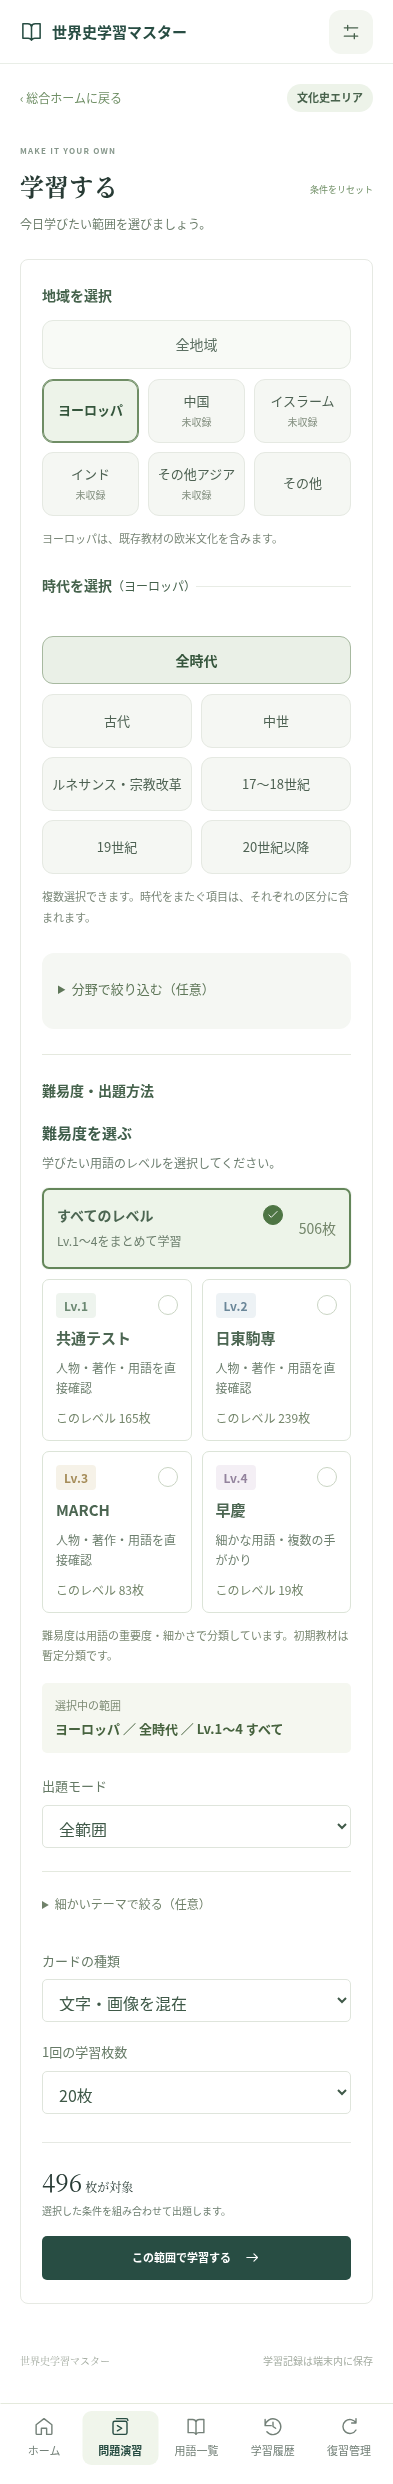
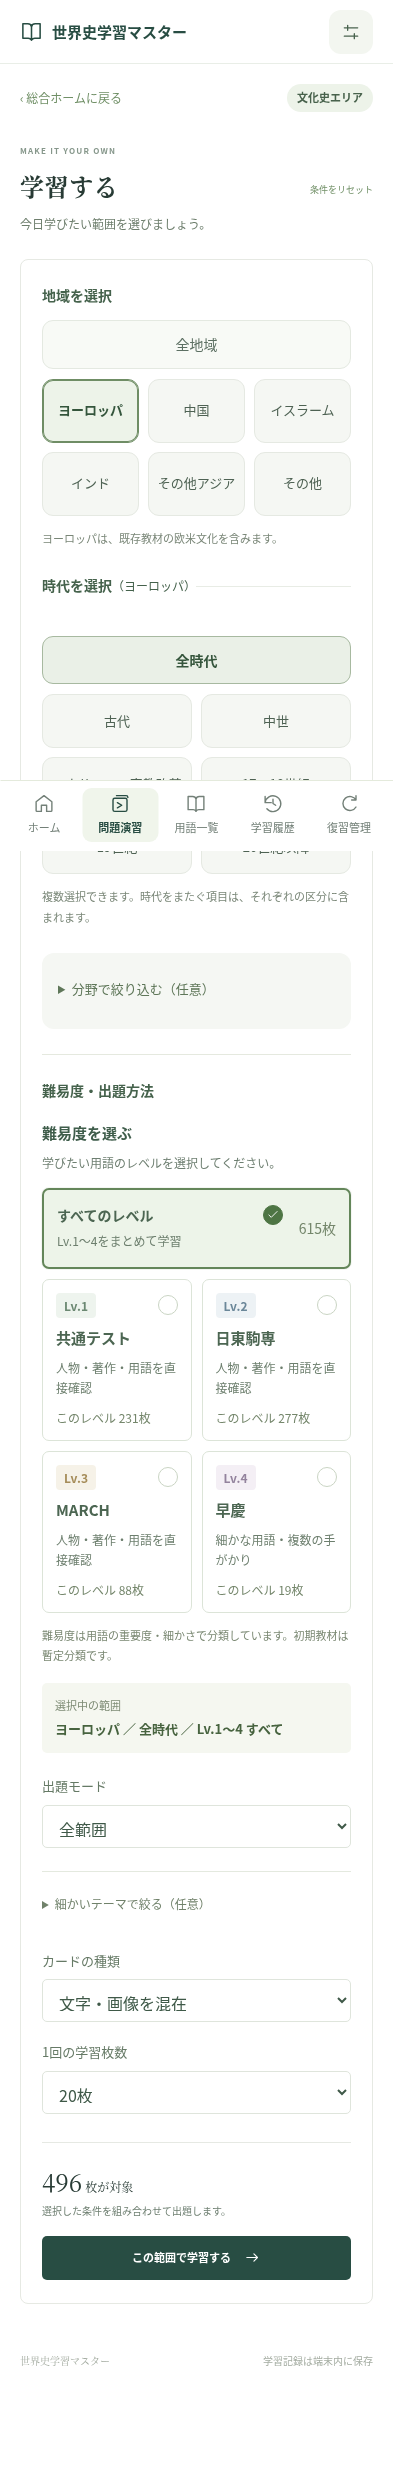
Verify Oriental catalogue compatibility and show eras after region selection

diff --git a/src/culture-picker.ts b/src/culture-picker.ts
@@ -10,11 +10,11 @@ export function renderCultureScope(items:KnowledgeItem[],filter:StudyFilter):str
   const selected=filter.regionGroups??[],eras=filter.eraGroups??[];
   const regions=availableRegionGroups(items,selected);
   const regionLabel=selected.length?REGION_GROUPS.filter(g=>selected.includes(g.id)).map(g=>g.label).join('・'):'全地域';
-  const eraSections=regions.map(id=>{
+  const eraSections=selected.length?regions.map(id=>{
     const group=REGION_GROUPS.find(g=>g.id===id)!;
     const options=eraGroupsForRegions([id]);
     return `${regions.length>1?`<p class="scope-region-heading">${h(group.label)}</p>`:''}<div class="scope-era-grid">${options.filter(o=>o.id!=='unclassified').map(o=>`<label class="scope-tile"><input type="checkbox" name="eraGroups" value="${h(o.id)}" ${eras.includes(o.id)?'checked':''}><span>${h(o.label)}</span></label>`).join('')}</div>`;
-  }).join('');
-  const unknown=items.some(i=>regions.includes(regionGroup(i))&&itemEraGroups(i).includes('unclassified'));
-  return `<section class="culture-scope-picker" aria-label="文化史の地域と時代"><fieldset class="scope-field"><legend>地域を選択</legend><button type="button" class="scope-all ${selected.length?'':'selected'}" data-action="all-regions" aria-pressed="${!selected.length}">全地域</button><div class="scope-region-grid">${REGION_GROUPS.map(g=>{const count=items.filter(i=>regionGroup(i)===g.id).length;return `<label class="scope-tile"><input type="checkbox" name="regionGroups" value="${g.id}" ${selected.includes(g.id)?'checked':''}><span>${h(g.label)}${!count?'<small>未収録</small>':''}</span></label>`;}).join('')}</div><p class="scope-help">ヨーロッパは、既存教材の欧米文化を含みます。</p></fieldset><fieldset class="scope-field"><legend>時代を選択<span>（${h(regionLabel)}）</span></legend><button type="button" class="scope-all ${eras.length?'':'selected'}" data-action="all-eras" aria-pressed="${!eras.length}">全時代</button>${eraSections}${unknown?`<label class="scope-tile scope-unclassified"><input type="checkbox" name="eraGroups" value="unclassified" ${eras.includes('unclassified')?'checked':''}><span>その他・時代確認中</span></label>`:''}<p class="scope-help">複数選択できます。時代をまたぐ項目は、それぞれの区分に含まれます。</p></fieldset></section>`;
+  }).join(''):'';
+  const unknown=selected.length>0&&items.some(i=>regions.includes(regionGroup(i))&&itemEraGroups(i).includes('unclassified'));
+  return `<section class="culture-scope-picker" aria-label="文化史の地域と時代"><fieldset class="scope-field"><legend>地域を選択</legend><button type="button" class="scope-all ${selected.length?'':'selected'}" data-action="all-regions" aria-pressed="${!selected.length}">全地域</button><div class="scope-region-grid">${REGION_GROUPS.map(g=>{const count=items.filter(i=>regionGroup(i)===g.id).length;return `<label class="scope-tile"><input type="checkbox" name="regionGroups" value="${g.id}" ${selected.includes(g.id)?'checked':''}><span>${h(g.label)}${!count?'<small>未収録</small>':''}</span></label>`;}).join('')}</div><p class="scope-help">ヨーロッパは、既存教材の欧米文化を含みます。</p></fieldset><fieldset class="scope-field"><legend>時代を選択<span>（${h(regionLabel)}）</span></legend><button type="button" class="scope-all ${eras.length?'':'selected'}" data-action="all-eras" aria-pressed="${!eras.length}">全時代</button>${eraSections}${unknown?`<label class="scope-tile scope-unclassified"><input type="checkbox" name="eraGroups" value="unclassified" ${eras.includes('unclassified')?'checked':''}><span>その他・時代確認中</span></label>`:''}<p class="scope-help">${selected.length?"複数選択できます。時代をまたぐ項目は、それぞれの区分に含まれます。":"地域を選ぶと、その地域の時代を表示します。全地域のまま学習することもできます。"}</p></fieldset></section>`;
 }

diff --git a/tests/scope.e2e.ts b/tests/scope.e2e.ts
@@ -1,8 +1,10 @@
 import {test, expect, type Page} from '@playwright/test';
 import {mkdir} from 'node:fs/promises';
 import {seedCatalog} from '../src/seed';
-import {selectCards} from '../src/core';
+import {mergeCatalog,selectCards} from '../src/core';
+import {readFileSync} from 'node:fs';
 import {DEFAULT_FILTER, type Catalog, type ReviewEvent, type StudyFilter} from '../src/types';
+const publishedDelta=JSON.parse(readFileSync(new URL('../public/catalog-delta.json',import.meta.url),'utf8'));
 
 // These tests isolate the selector UI from new live textbook publications.
 // Real Service Worker and offline recovery remain covered by app/areas.e2e.ts.
@@ -52,9 +54,29 @@ test('文化史の通常画面は6地域・欧州6時代にまとまり、細か
   await page.locator('[data-action=all-eras]').click();
   await expect(page.locator('[name=eraGroups]:checked')).toHaveCount(0);
   await expectCount(page,{regionGroups:['europe']});
+  await page.locator('[name=eraGroups][value=eu-ancient]').check();
+  await page.locator('[name=regionGroups][value=europe]').uncheck();
+  await expect(page.locator('[name=eraGroups]')).toHaveCount(0);
+  await expectCount(page,{});
   await page.locator('[data-action=all-regions]').click();
   await expect(page.locator('[name=regionGroups]:checked')).toHaveCount(0);
   await expectCount(page,{});
+});
+
+test('公開済みの東洋文化史の追加を保持し、中国の大区分で出題できる',async({page,context})=>{
+  await context.route('**/catalog-delta.json*',route=>route.fulfill({contentType:'application/json',body:JSON.stringify(publishedDelta)}));
+  await setup(page);
+  const catalog=mergeCatalog(seedCatalog,publishedDelta);
+  await expect.poll(async()=>(await records(page)).catalog.version).toBe(catalog.version);
+  await page.locator('[name=regionGroups][value=china]').check();
+  await expect(page.locator('[name=eraGroups]')).toHaveCount(3);
+  await page.locator('[name=eraGroups][value=china-ancient-middle]').check();
+  const cards=selectCards(catalog,[],{...DEFAULT_FILTER,regionGroups:['china'],eraGroups:['china-ancient-middle']});
+  expect(cards.length).toBeGreaterThan(0);
+  await expect(page.locator('.setup-bottom strong')).toHaveText(`${cards.length} 枚が対象`);
+  await page.locator('#study-options [type=submit]').click();
+  await expect(page.locator('.flashcard h1')).toHaveText(cards[0].question);
+  expect((await records(page)).catalog.items).toEqual(catalog.items);
 });
 
 test('大区分の時代の和集合と他の条件を組み合わせ、地域変更時に古い時代を残さない',async({page})=>{

diff --git a/tests/culture-scope.test.ts b/tests/culture-scope.test.ts
@@ -1,11 +1,24 @@
 import {describe,expect,it} from 'vitest';
 import {DEFAULT_FILTER, type Catalog} from '../src/types';
-import {selectCards} from '../src/core';
+import {mergeCatalog,selectCards} from '../src/core';
+import {readFileSync} from 'node:fs';
 import {seedCatalog} from '../src/seed';
 import {REGION_GROUPS,UNCLASSIFIED_ERA,eraGroupsForRegions,itemEraGroups,regionGroup} from '../src/culture-scope';
 import {makeCard,makeItem,TIME} from './fixtures';
+const publishedDelta=JSON.parse(readFileSync(new URL('../public/catalog-delta.json',import.meta.url),'utf8'));
 
 describe('broad culture display groups',()=>{
+  it('keeps the newly published Oriental catalogue reachable without changing any records',()=>{
+    const catalog=mergeCatalog(seedCatalog,publishedDelta),before=JSON.stringify(catalog);
+    const cards=selectCards(catalog,[],structuredClone(DEFAULT_FILTER));
+    expect(new Set(cards.map(card=>card.id)).size).toBe(cards.length);
+    for(const item of catalog.items.filter(i=>!i.deleted)){
+      expect(itemEraGroups(item),item.id).not.toContain(UNCLASSIFIED_ERA);
+      expect(REGION_GROUPS.some(group=>group.id===regionGroup(item))).toBe(true);
+    }
+    expect(selectCards(catalog,[],{...DEFAULT_FILTER,regionGroups:['china'],eraGroups:['china-ancient-middle']}).length).toBeGreaterThan(0);
+    expect(JSON.stringify(catalog)).toBe(before);
+  });
   it('offers six European periods and keeps the regional period options separate',()=>{
     expect(eraGroupsForRegions(['europe']).map(x=>x.label)).toEqual(['古代','中世','ルネサンス・宗教改革','17〜18世紀','19世紀','20世紀以降']);
     expect(eraGroupsForRegions(['china']).map(x=>x.label)).toEqual(['古代・中世','近世','近現代']);

diff --git a/src/main.ts b/src/main.ts
@@ -231,7 +231,7 @@ function readOptions(form:HTMLFormElement,changedName?:string){
   const regionChanged=changedName==='regionGroups';
   filter={mode:f.get('mode') as StudyFilter['mode'],level:f.get('level')==='all'?'all':Number(f.get('level')) as Level,levelMode:f.get('levelMode') as StudyFilter['levelMode'],
     regions:regionChanged?[]:f.getAll('regions') as string[],eras:regionChanged||changedName==='eraGroups'?[]:f.getAll('eras') as string[],
-    fields:f.getAll('fields') as string[],cardType:f.get('cardType') as StudyFilter['cardType'],regionGroups,eraGroups:(f.getAll('eraGroups') as string[]).filter(id=>allowed.has(id))};
+    fields:f.getAll('fields') as string[],cardType:f.get('cardType') as StudyFilter['cardType'],regionGroups,eraGroups:regionChanged&&!regionGroups.length?[]:(f.getAll('eraGroups') as string[]).filter(id=>allowed.has(id))};
   detailScopeOpen=form.querySelector<HTMLDetailsElement>('#detail-scope')?.open??false;
   fieldScopeOpen=form.querySelector<HTMLDetailsElement>('#field-scope')?.open??false;
   sessionLimit=String(f.get('limit'));

diff --git a/docs/TEST_RESULTS.md b/docs/TEST_RESULTS.md
@@ -4,7 +4,7 @@
 
 文化史の通常の選択画面を、地域6区分と地域ごとの大きな時代区分に整理した。ヨーロッパは古代／中世／ルネサンス・宗教改革／17〜18世紀／19世紀／20世紀以降の6個。細かな教材タグと分野一覧は任意で開く。教材・ID・DB・本番JSON・年号UIは変更していない。
 
-`npm ci` 成功。`npm test` は8ファイル82件成功、`npm run build` 成功、`npm run test:e2e` は24件すべて成功（従来21件と新規3件）。365項目の大区分対応、時代をまたぐカードの重複防止、地域変更時の選択解除、難易度・分野・画像・復習モードとの組合せ、元の教材タグと誤答履歴の保持、360px・393pxでの操作を検証した。旧来の詳細な絞り込みは、詳細欄を開いたうえで従来のテストを維持している。
+`npm ci` 成功。`npm test` は8ファイル83件成功、`npm run build` 成功、`npm run test:e2e` は25件すべて成功（従来21件と新規4件）。同梱365項目と、別途公開された東洋文化史109項目の大区分対応、時代をまたぐカードの重複防止、地域変更時の選択解除、難易度・分野・画像・復習モードとの組合せ、元の教材タグと誤答履歴の保持、360px・393pxでの操作を検証した。旧来の詳細な絞り込みは、詳細欄を開いたうえで従来のテストを維持している。
 
 画像：[文化史の時代選択](../artifacts/scope-mobile.png)。全世界一律の年号境界は使用せず、地域別の既存タグから暫定的に集約する。未提供の東洋文化史の分類精度とAndroid実機操作は未検証。
 
